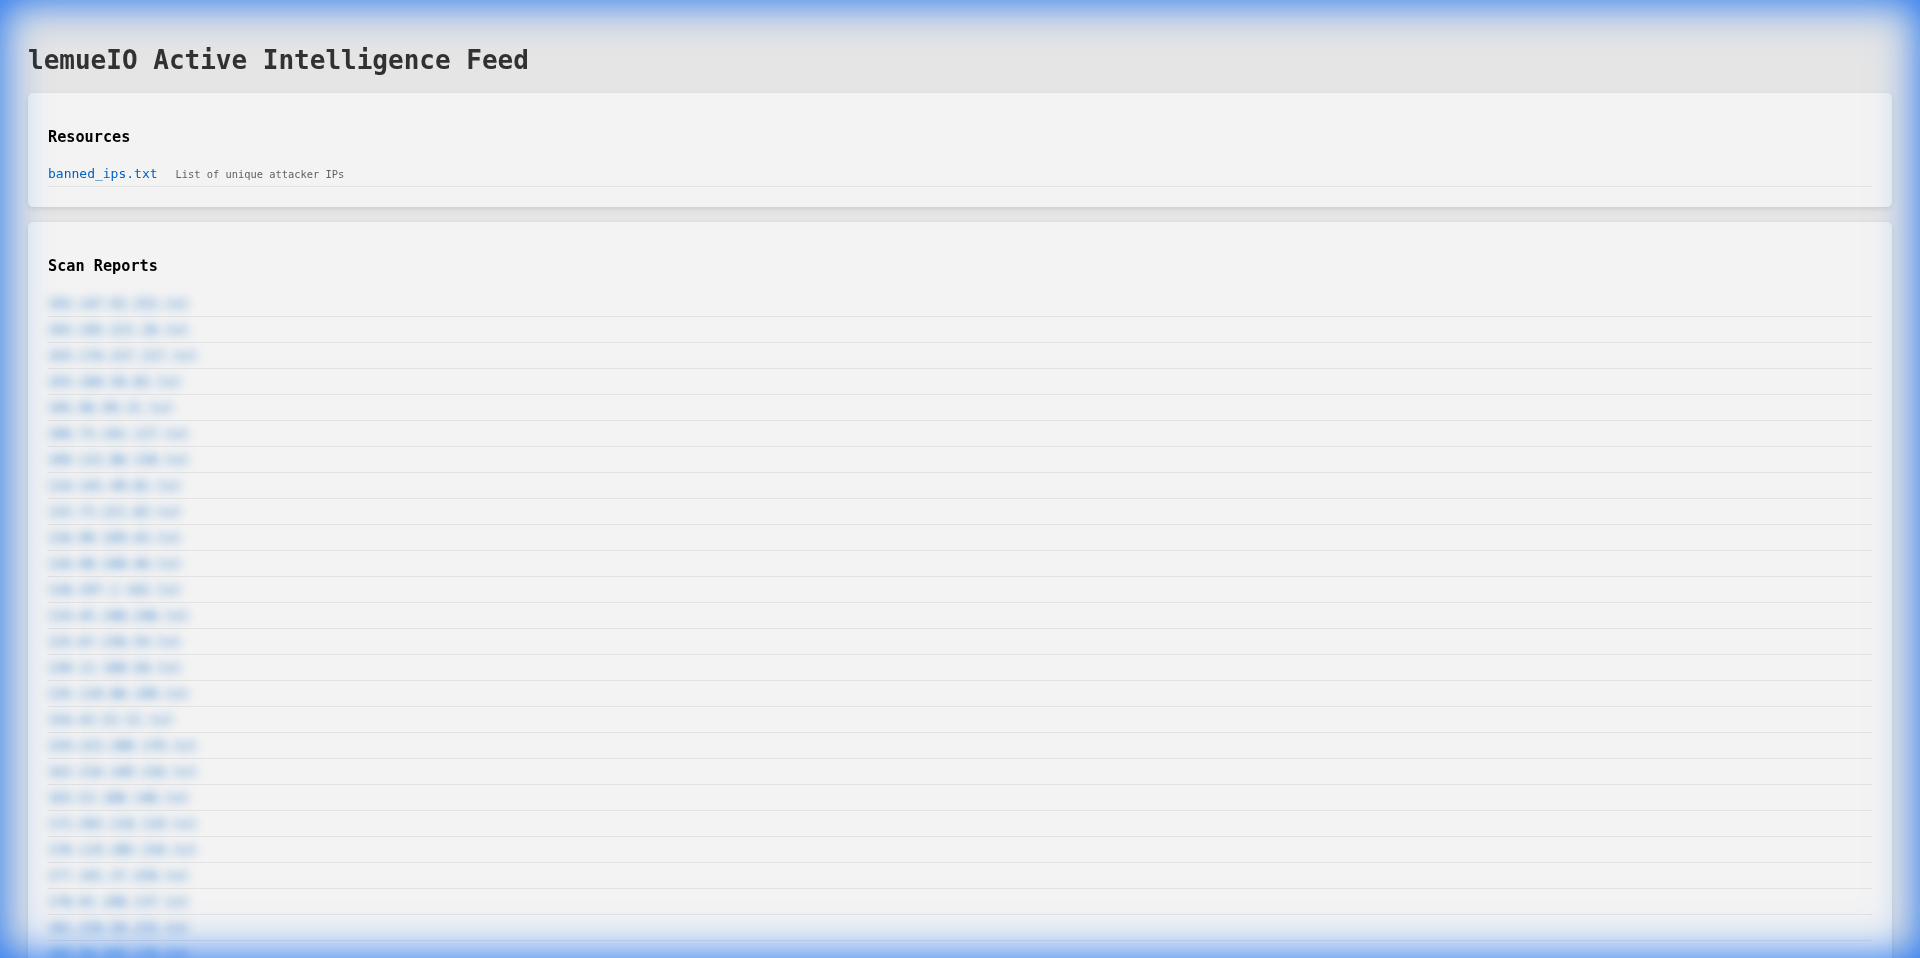
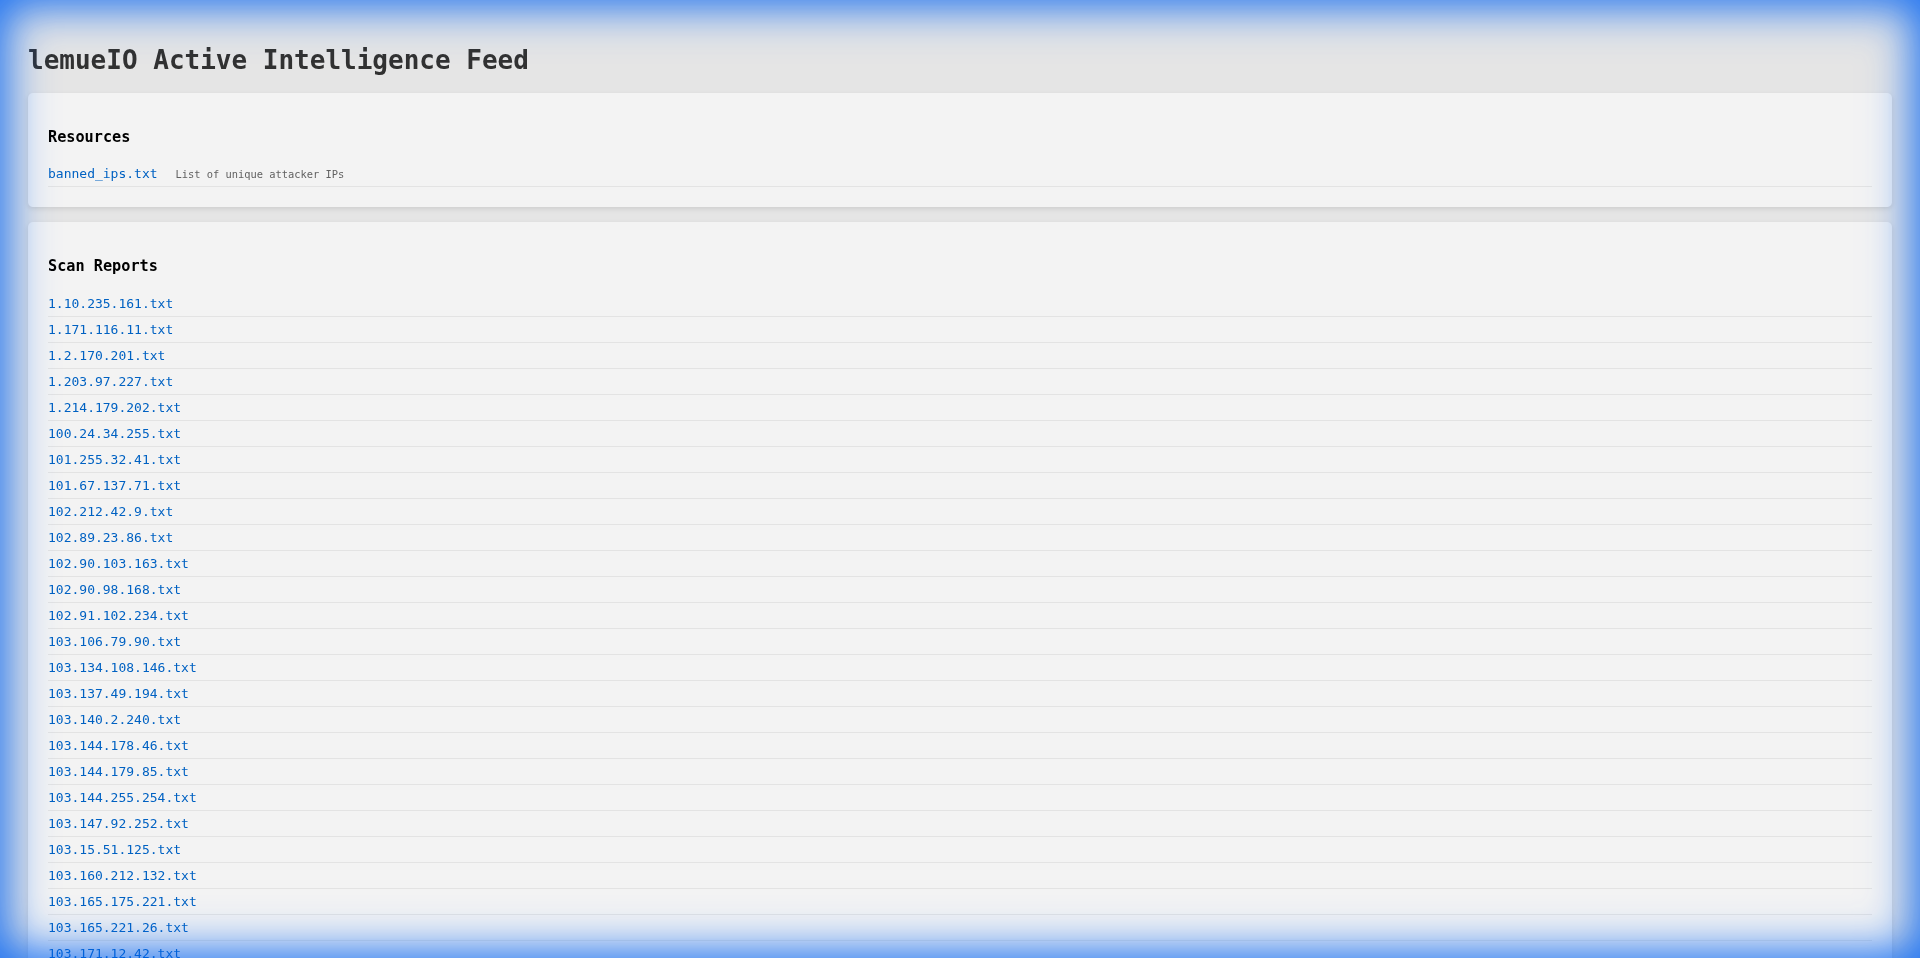
Docs: Update screenshots, rename sections, and refine formatting (v3.8.0)

Changed region(s): [[0.0, 0.3027, 1.0, 1.0], [0.9688, 0.0, 1.0, 0.0303], [0.0, 0.0, 0.0312, 0.0303]]

diff --git a/README_UA.md b/README_UA.md
@@ -7,7 +7,7 @@
 
 <br>
 
-![Version](https://img.shields.io/badge/version-3.7.2-blue.svg)
+![Version](https://img.shields.io/badge/version-3.8.0-blue.svg)
 ![Powered By](https://img.shields.io/badge/Powered%20By-HFish-orange)
 ![Docker](https://img.shields.io/badge/Docker-2496ED?style=flat&logo=docker&logoColor=white)
 ![Python](https://img.shields.io/badge/Python-3776AB?style=flat&logo=python&logoColor=white)
@@ -20,6 +20,8 @@
 [🇬🇧 English](README.md) | [🇩🇪 Deutsch](README_DE.md) | [🇺🇦 Українська](README_UA.md)
 
 </div>
+
+---
 
 > [!WARNING]
 > **⚠ ВІДМОВА ВІД ВІДПОВІДАЛЬНОСТІ: ІНСТРУМЕНТ ВИСОКОГО РИЗИКУ ⚠**
@@ -41,6 +43,8 @@
 3.  **📢 Публікує** розвідувальні дані в локальний канал (фід).
 4.  **🛡 Блокує** зловмисника на вашій виробничій інфраструктурі (через клієнтські скрипти).
 
+---
+
 ## 🚀 Основні функції
 
 *   **⚡ Реакція в реальному часі**: Python-сайдкар моніторить `hfish.db` і запускає сканування через секунди після атаки.
@@ -50,12 +54,14 @@
 *   **🖼 Візуалізація**:
     *   **Live Threat Monitor** (Фід):
         ![Feed Dashboard](docs/img/feed_dashboard_v4.png)
-    *   **Карта атак HFish** (Внутрішня):
+    *   **lemueIO SecMonitor** (Внутрішня):
         ![Attack Map](docs/img/hfish_screen_v4.png)
-    *   **Статистика HFish** (Внутрішня):
+    *   **lemueIO Statistics** (Внутрішня):
         ![Statistics](docs/img/hfish_dashboard_v4.png)
     *   **Інтерфейс входу**:
         ![Login](docs/img/login_v2.png)
+
+---
 
 ## 🏗 Архітектура
 

diff --git a/README_DE.md b/README_DE.md
@@ -7,7 +7,7 @@
 
 <br>
 
-![Version](https://img.shields.io/badge/version-3.7.2-blue.svg)
+![Version](https://img.shields.io/badge/version-3.8.0-blue.svg)
 ![Powered By](https://img.shields.io/badge/Powered%20By-HFish-orange)
 ![Docker](https://img.shields.io/badge/Docker-2496ED?style=flat&logo=docker&logoColor=white)
 ![Python](https://img.shields.io/badge/Python-3776AB?style=flat&logo=python&logoColor=white)
@@ -20,6 +20,8 @@
 [🇬🇧 English](README.md) | [🇩🇪 Deutsch](README_DE.md) | [🇺🇦 Українська](README_UA.md)
 
 </div>
+
+---
 
 > [!WARNING]
 > **⚠ HAFTUNGSAUSSCHLUSS: HOCHRISIKO-TOOL ⚠**
@@ -41,6 +43,8 @@ Wenn ein Angreifer deinen Honeypot berührt, wird Honey-Scan automatisch:
 3.  **📢 Veröffentlichen**: Die Informationen in einem lokalen Feed bereitstellen.
 4.  **🛡 Blockieren**: Den Angreifer auf deiner Produktionsinfrastruktur blockieren (über Client-Skripte).
 
+---
+
 ## 🚀 Hauptfunktionen
 
 *   **⚡ Echtzeit-Reaktion**: Python-Sidecar überwacht `hfish.db` und löst Sekunden nach einem Angriff Scans aus.
@@ -50,12 +54,14 @@ Wenn ein Angreifer deinen Honeypot berührt, wird Honey-Scan automatisch:
 *   **🖼 Visualisierungen**:
     *   **Live Threat Monitor** (Der "Feed"):
         ![Feed Dashboard](docs/img/feed_dashboard_v4.png)
-    *   **HFish Angriffs-Karte** (Intern):
+    *   **lemueIO SecMonitor** (Intern):
         ![Attack Map](docs/img/hfish_screen_v4.png)
-    *   **HFish Statistiken** (Intern):
+    *   **lemueIO Statistics** (Intern):
         ![Statistics](docs/img/hfish_dashboard_v4.png)
     *   **Login Interface**:
         ![Login](docs/img/login_v2.png)
+
+---
 
 ## 🏗 Architektur
 

diff --git a/README.md b/README.md
@@ -7,7 +7,7 @@
 
 <br>
 
-![Version](https://img.shields.io/badge/version-3.7.2-blue.svg)
+![Version](https://img.shields.io/badge/version-3.8.0-blue.svg)
 ![Powered By](https://img.shields.io/badge/Powered%20By-HFish-orange)
 ![Docker](https://img.shields.io/badge/Docker-2496ED?style=flat&logo=docker&logoColor=white)
 ![Python](https://img.shields.io/badge/Python-3776AB?style=flat&logo=python&logoColor=white)
@@ -20,6 +20,8 @@
 [🇬🇧 English](README.md) | [🇩🇪 Deutsch](README_DE.md) | [🇺🇦 Українська](README_UA.md)
 
 </div>
+
+---
 
 > [!WARNING]
 > **⚠ DISCLAIMER: HIGH RISK TOOL ⚠**
@@ -41,6 +43,8 @@ When an attacker touches your honeypot, Honey-Scan automatically:
 3.  **📢 Publishes** the intelligence to a local feed.
 4.  **🛡 Blocks** the attacker on your production infrastructure (via client scripts).
 
+---
+
 ## 🚀 Key Features
 
 *   **⚡ Real-Time Reaction**: Python sidecar monitors `hfish.db` and triggers scans within seconds of an attack.
@@ -50,12 +54,14 @@ When an attacker touches your honeypot, Honey-Scan automatically:
 *   **🖼 Visuals**:
     *   **Live Threat Monitor** (The "Feed"):
         ![Feed Dashboard](docs/img/feed_dashboard_v4.png)
-    *   **HFish Attack Map** (Internal):
+    *   **lemueIO SecMonitor** (Internal):
         ![Attack Map](docs/img/hfish_screen_v4.png)
-    *   **HFish Statistics** (Internal):
+    *   **lemueIO Statistics** (Internal):
         ![Statistics](docs/img/hfish_dashboard_v4.png)
     *   **Login Interface**:
         ![Login](docs/img/login_v2.png)
+
+---
 
 ## 🏗 Architecture
 

diff --git a/CHANGELOG.md b/CHANGELOG.md
@@ -1,5 +1,16 @@
 # Changelog
 
+## [3.8.0] - 2026-01-01
+
+### Added
+- 📸 **Visuals**: Updated all project screenshots (Feed, SecMonitor, Statistics, Login) with clean, high-quality captures (removed blue borders).
+- 📝 **Docs**: Added horizontal rules (`---`) to READMEs for better readability between sections.
+
+### Changed
+- 🚨 **Rebranding**: Renamed "HFish Attack Map" to "**lemueIO SecMonitor** (Internal)" in documentation.
+- 🚨 **Rebranding**: Renamed "HFish Statistics" to "**lemueIO Statistics** (Internal)" in documentation.
+- 🆙 **Minor Release**: Version bump to 3.8.0 reflecting documentation overhaul.
+
 ## [3.7.2] - 2026-01-01
 
 ### Fixed
